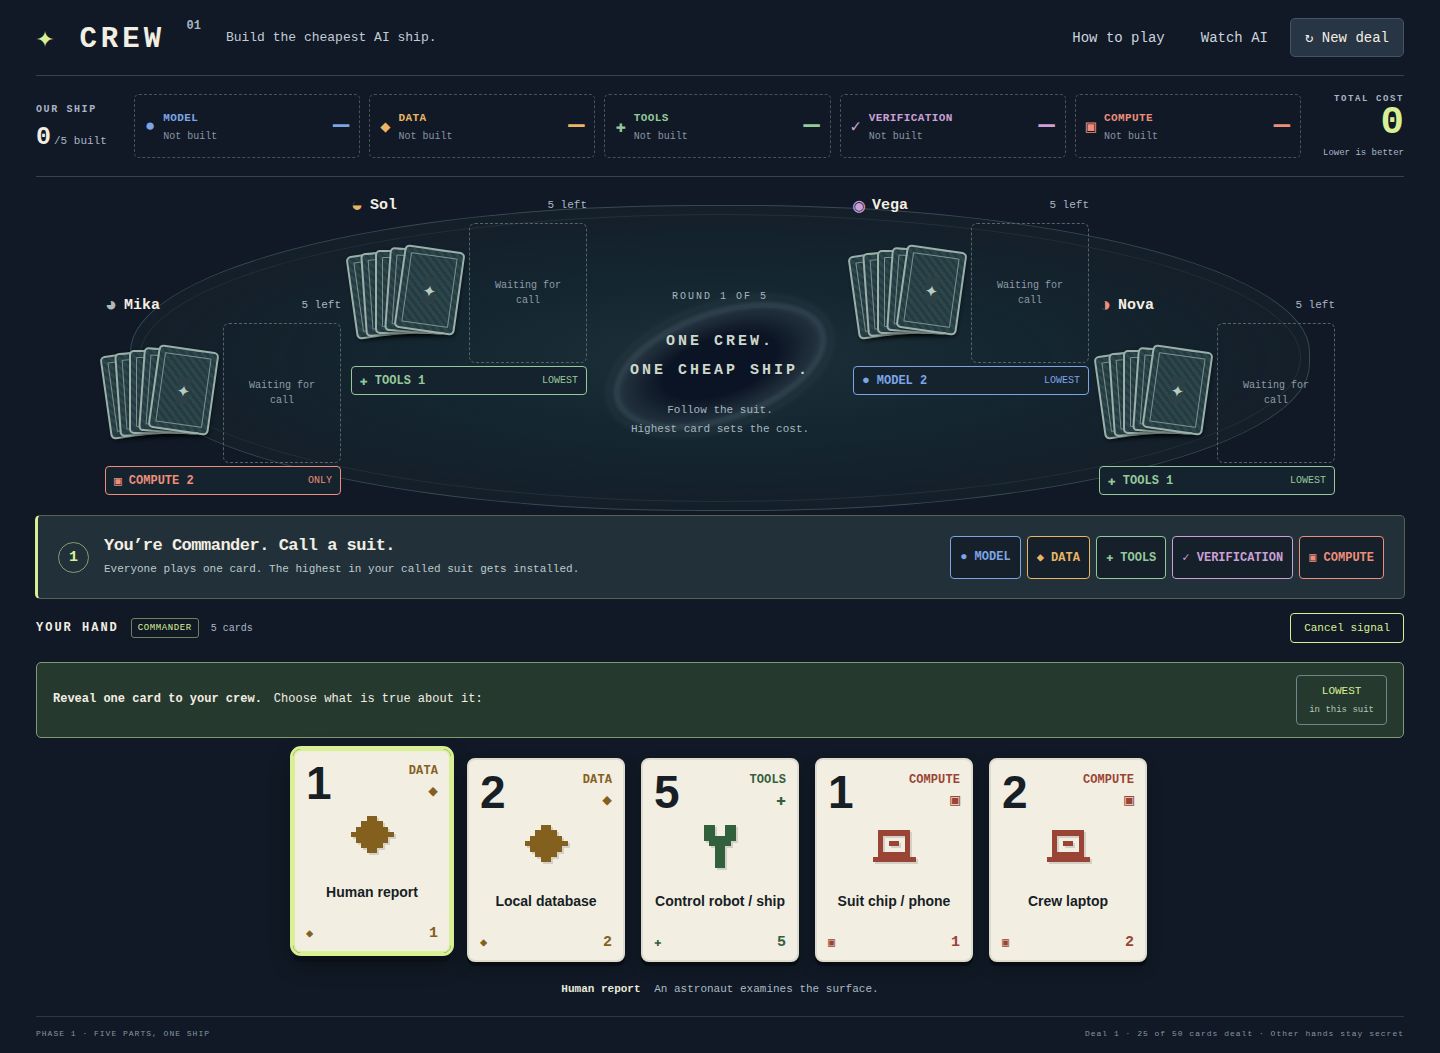
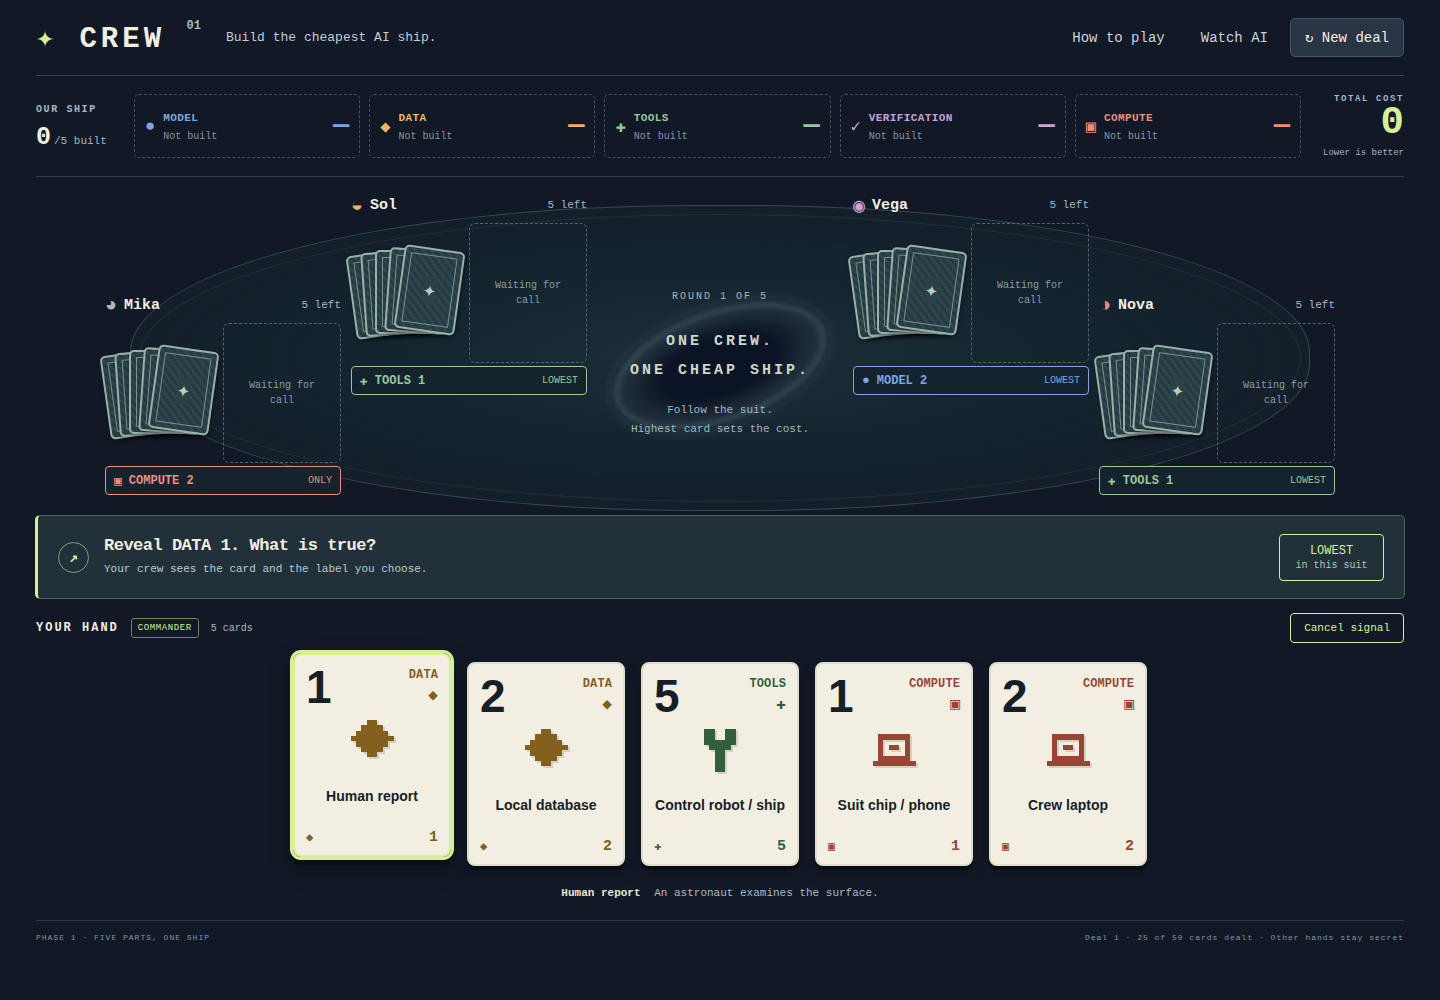
crew: finish projection controls and full-game browser verification

diff --git a/crew/PLAYTEST.md b/crew/PLAYTEST.md
@@ -63,3 +63,15 @@ Scores are recorded **only for complete five-part stacks**. Failure counts and p
 Five tricks keep sessions short. Bot experiments can demonstrate decision consequences and catch broken mechanics, but cannot establish that a group of humans finds the game fun. The browser's clarity and pacing require direct visual/manual testing; human group replay interest remains an event test.
 
 Reproduce: `node crew/simulate.mjs --games 2500`. Final machine-readable results: [reports/simulation.json](reports/simulation.json). Qualification checks: `node --test crew/simulation.test.mjs`.
+
+## Browser playtests and visual iteration
+
+The final browser pass used real clicks on visible controls, not injected game-state changes. A complete human-seat game on seed 1 finished at **16** (MODEL 4 + DATA 1 + TOOLS 4 + VERIFICATION 5 + COMPUTE 2). It used a truthful DATA 1 LOWEST signal, followed suit, discarded when void, reviewed each trick, and reached all five installed parts. The same-deal replay restored all five cards and the signal token.
+
+An automated five-seat demonstration also completed all five rounds. Reset was exercised while bot timers were active. The impossible seed 175 was tested by calling VERIFICATION, which was absent from the deal: all five cards were marked as discards, the ship ended incomplete, and neither a total nor a qualifying score was invented. The final round history remained readable.
+
+Screenshots were captured and visually inspected at desktop, **1366×768 projector**, and **390px phone** sizes. Iterations fixed overlapping seats that obscured signals, enlarged suit labels, explicitly labelled off-suit DISCARD cards, showed the human signal persistently, and moved signal selection into the command strip so the hand remains visible on a projector. Both ordinary and signal-mode hands fit at projector size. The phone hand scrolls horizontally; the page itself does not overflow horizontally. A phone needs vertical scrolling, while desktop is the intended table experience.
+
+Fifteen engine/qualification tests pass. The final browser run records no JavaScript or console errors; machine-readable checks are in [reports/browser-qa.json](reports/browser-qa.json). Screenshots 01–12 in [screenshots/](screenshots/) cover the first deal, rules, signal, legal play, trick result, complete stack, projection, mobile, AI demo and incomplete stack.
+
+The game now offers observable tradeoffs and a short, inspectable loop. These are agent-operated browser playtests, not a claim of enjoyment measured with a human group. The next useful event observation is whether players want to replay the same deal after seeing where expensive cards survived.

diff --git a/crew/chronology/2026-10-02.md b/crew/chronology/2026-10-02.md
@@ -28,3 +28,13 @@ Independent analysis proved that lowest-wins + five-card hands allows each playe
 - Signals remain visible beside the sender, including the human; played signals dim with “played”. Revised discard hints explain how cheap signals allow expensive discards.
 - Added simple keyboard focus containment for the rules overlay; reset cancels stale bot timers.
 - Saved the complete source, simulations and first checkpoint in git. Final screenshots, edge cases and local run guide are the next checkpoint.
+
+## Checkpoint 4 — Finished prototype and evidence
+
+- Final browser pass completed both a human-seat game and a whole AI-only game. Verified reset, exact deal replay, one-use signal, forced-follow filtering, public discards, complete result/history and an impossible-deal failure with no qualifying score.
+- Seed 175 has no VERIFICATION in the dealt 25 cards; verified that failure is honest rather than silently redealing or installing an invented card.
+- Fifteen engine/qualification tests pass; browser report records zero page/console errors. Saved twelve screenshot states, including projector signal selection and incomplete ship.
+- Inspected desktop/projector/mobile screenshots. Projection keeps all five cards and action controls visible; mobile intentionally scrolls the hand horizontally.
+- Added `README.md` with one-command local launch, rule change explanation, reproducible simulations and browser-test instructions. Runtime has no npm dependencies or external assets.
+- Source and notes are checkpointed in git. Local game server remains available on port 4173.
+- Human-group enjoyment remains to be measured at the table; bots establish meaningful choices, not a human fun rating.
